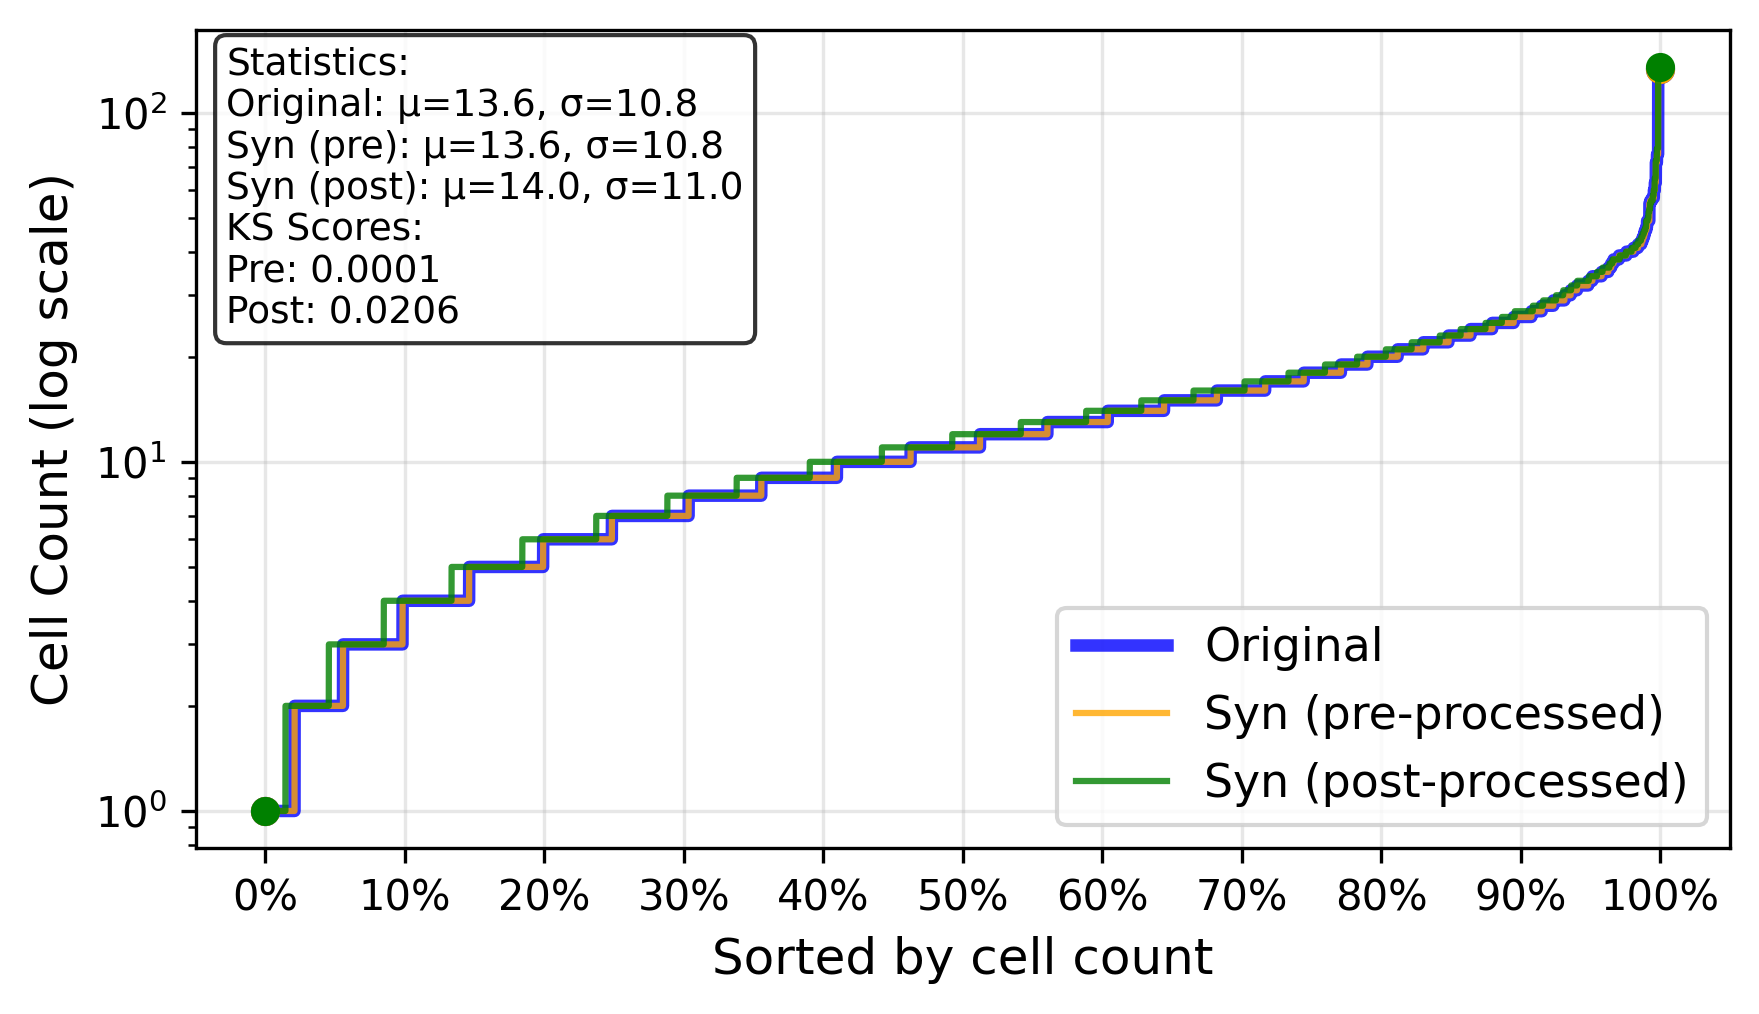
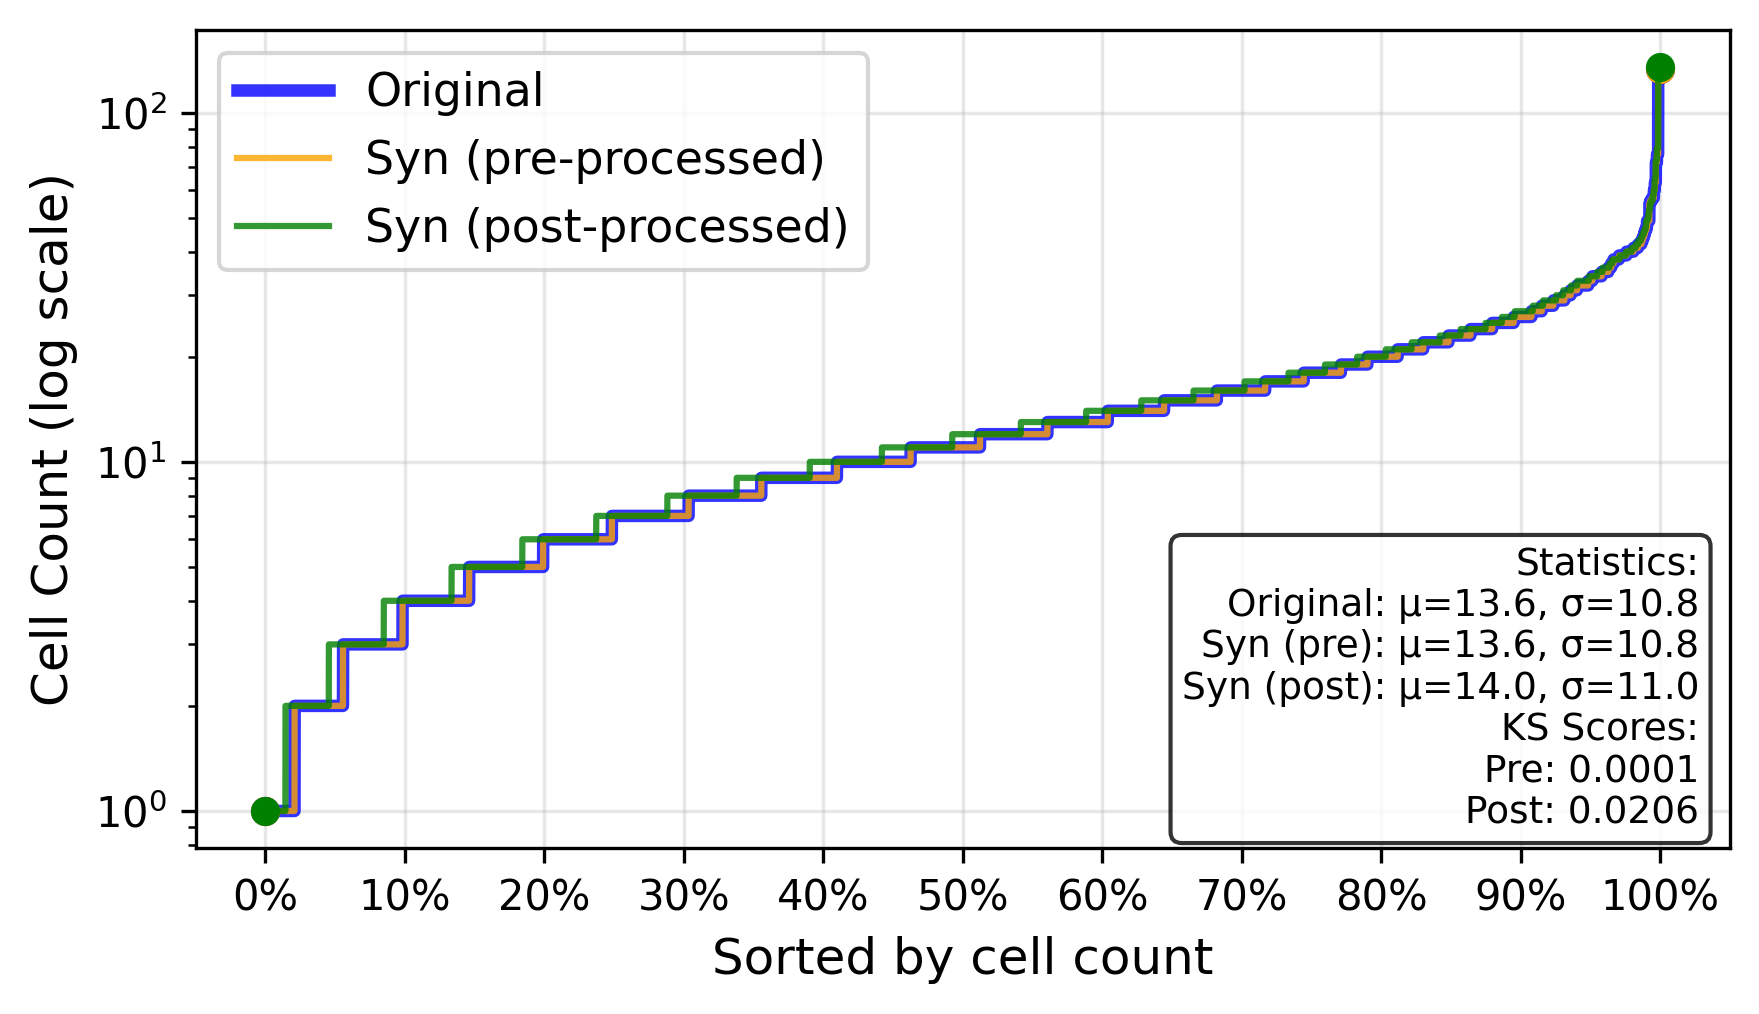
cleaned up plots

Changed region(s): [[0.5833, 0.5197, 0.9824, 0.856], [0.1228, 0.0306, 0.4912, 0.3669]]

diff --git a/testing/syndiffix/safe-values/pdfs2.py b/testing/syndiffix/safe-values/pdfs2.py
@@ -243,7 +243,7 @@ def create_grouped_income_pdf_plot(data_df, sal_df, cell_sal_stitched_df, datase
     ax.set_xticks(x_ticks)
     ax.set_xticklabels(x_labels)
     
-    plt.legend(fontsize=11)
+    plt.legend(fontsize=11, loc='upper left')
     plt.grid(True, alpha=0.3)
     
     # Add text box with statistics for dense dataset
@@ -256,9 +256,9 @@ def create_grouped_income_pdf_plot(data_df, sal_df, cell_sal_stitched_df, datase
         stats_text += f'Income: {ks_statistic_sal:.4f}\n'
         stats_text += f'Inc+Cell: {ks_statistic_sal_stitched:.4f}'
         
-        # Position text box in upper left
-        plt.text(0.02, 0.98, stats_text, transform=plt.gca().transAxes, 
-                fontsize=9, verticalalignment='top', horizontalalignment='left',
+        # Position text box in lower right
+        plt.text(0.98, 0.02, stats_text, transform=plt.gca().transAxes, 
+                fontsize=9, verticalalignment='bottom', horizontalalignment='right',
                 bbox=dict(boxstyle='round', facecolor='white', alpha=0.8))
     
     # Save the plot
@@ -378,7 +378,7 @@ def create_cell_count_pdf_plot(data_df, cell_cnt_df, cell_sal_stitched_df, datas
     ax.set_xticks(x_ticks)
     ax.set_xticklabels(x_labels)
     
-    plt.legend(fontsize=11)
+    plt.legend(fontsize=11, loc='upper left')
     plt.grid(True, alpha=0.3)
     
     # Add text box with statistics for dense dataset
@@ -391,9 +391,9 @@ def create_cell_count_pdf_plot(data_df, cell_cnt_df, cell_sal_stitched_df, datas
         stats_text += f'Pre: {ks_statistic_cell:.4f}\n'
         stats_text += f'Post: {ks_statistic_cell_stitched:.4f}'
         
-        # Position text box in upper left
-        plt.text(0.02, 0.98, stats_text, transform=plt.gca().transAxes, 
-                fontsize=9, verticalalignment='top', horizontalalignment='left',
+        # Position text box in lower right
+        plt.text(0.98, 0.02, stats_text, transform=plt.gca().transAxes, 
+                fontsize=9, verticalalignment='bottom', horizontalalignment='right',
                 bbox=dict(boxstyle='round', facecolor='white', alpha=0.8))
     
     # Save the plot
